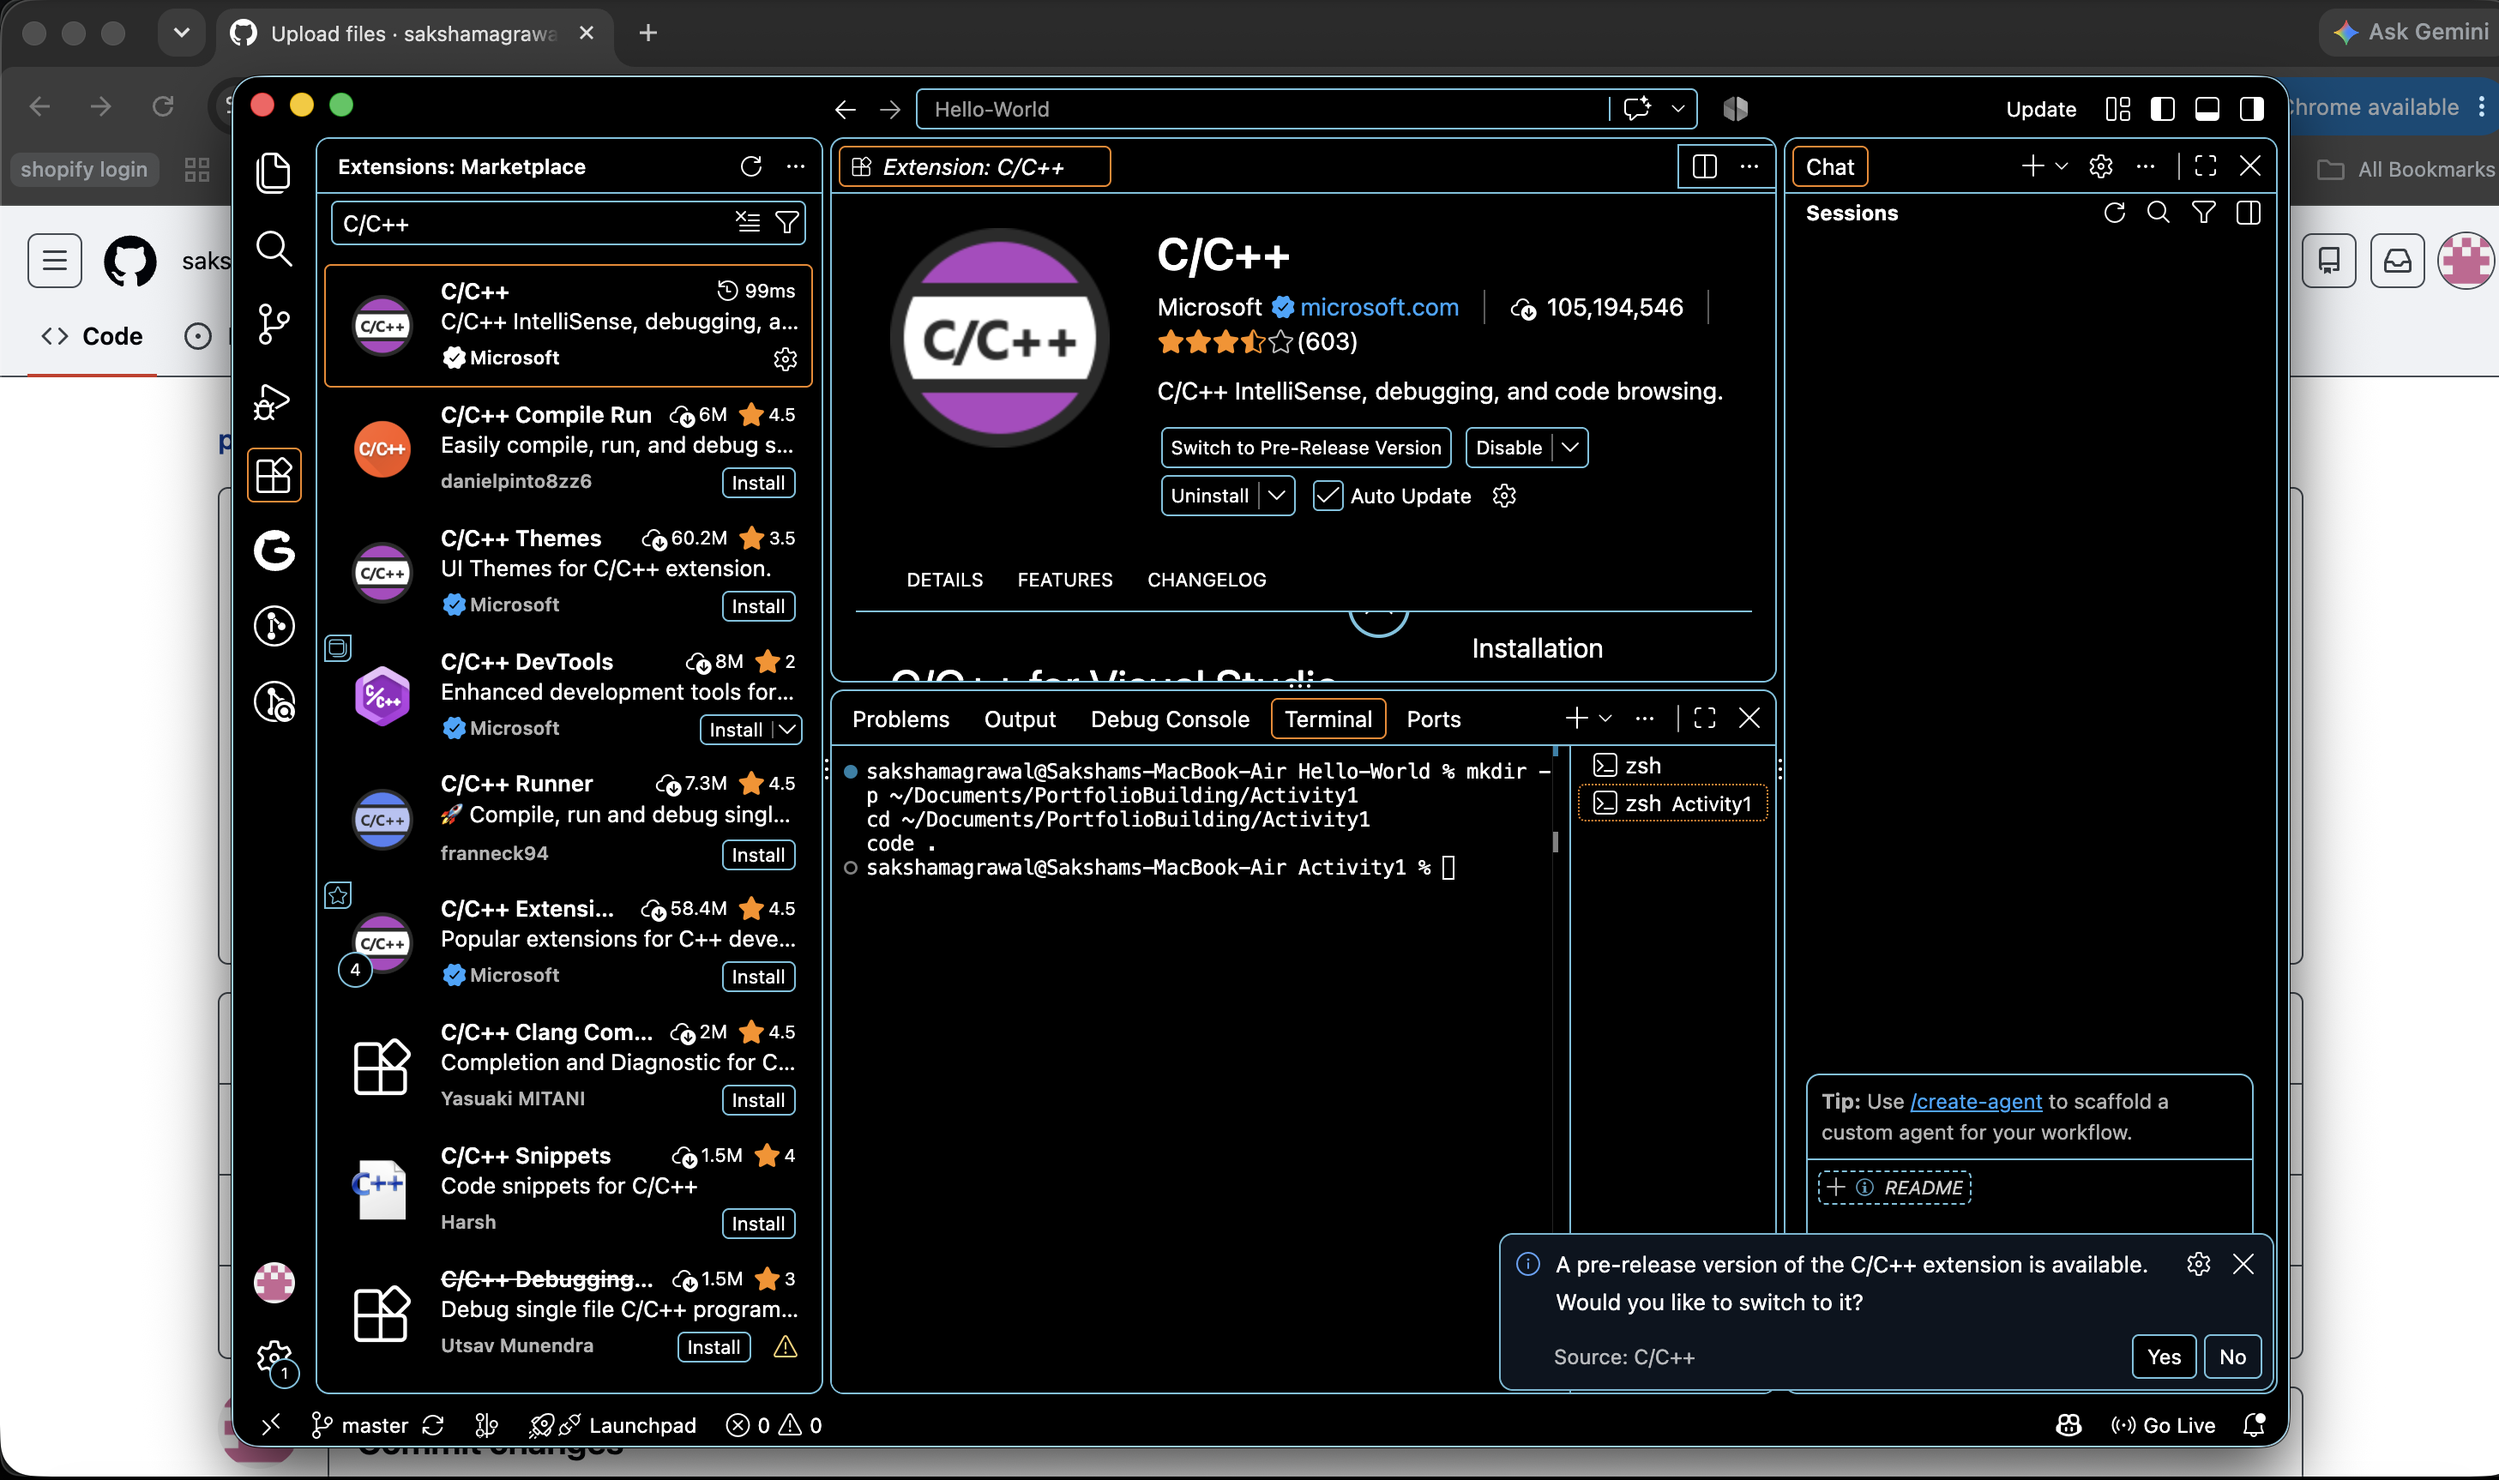
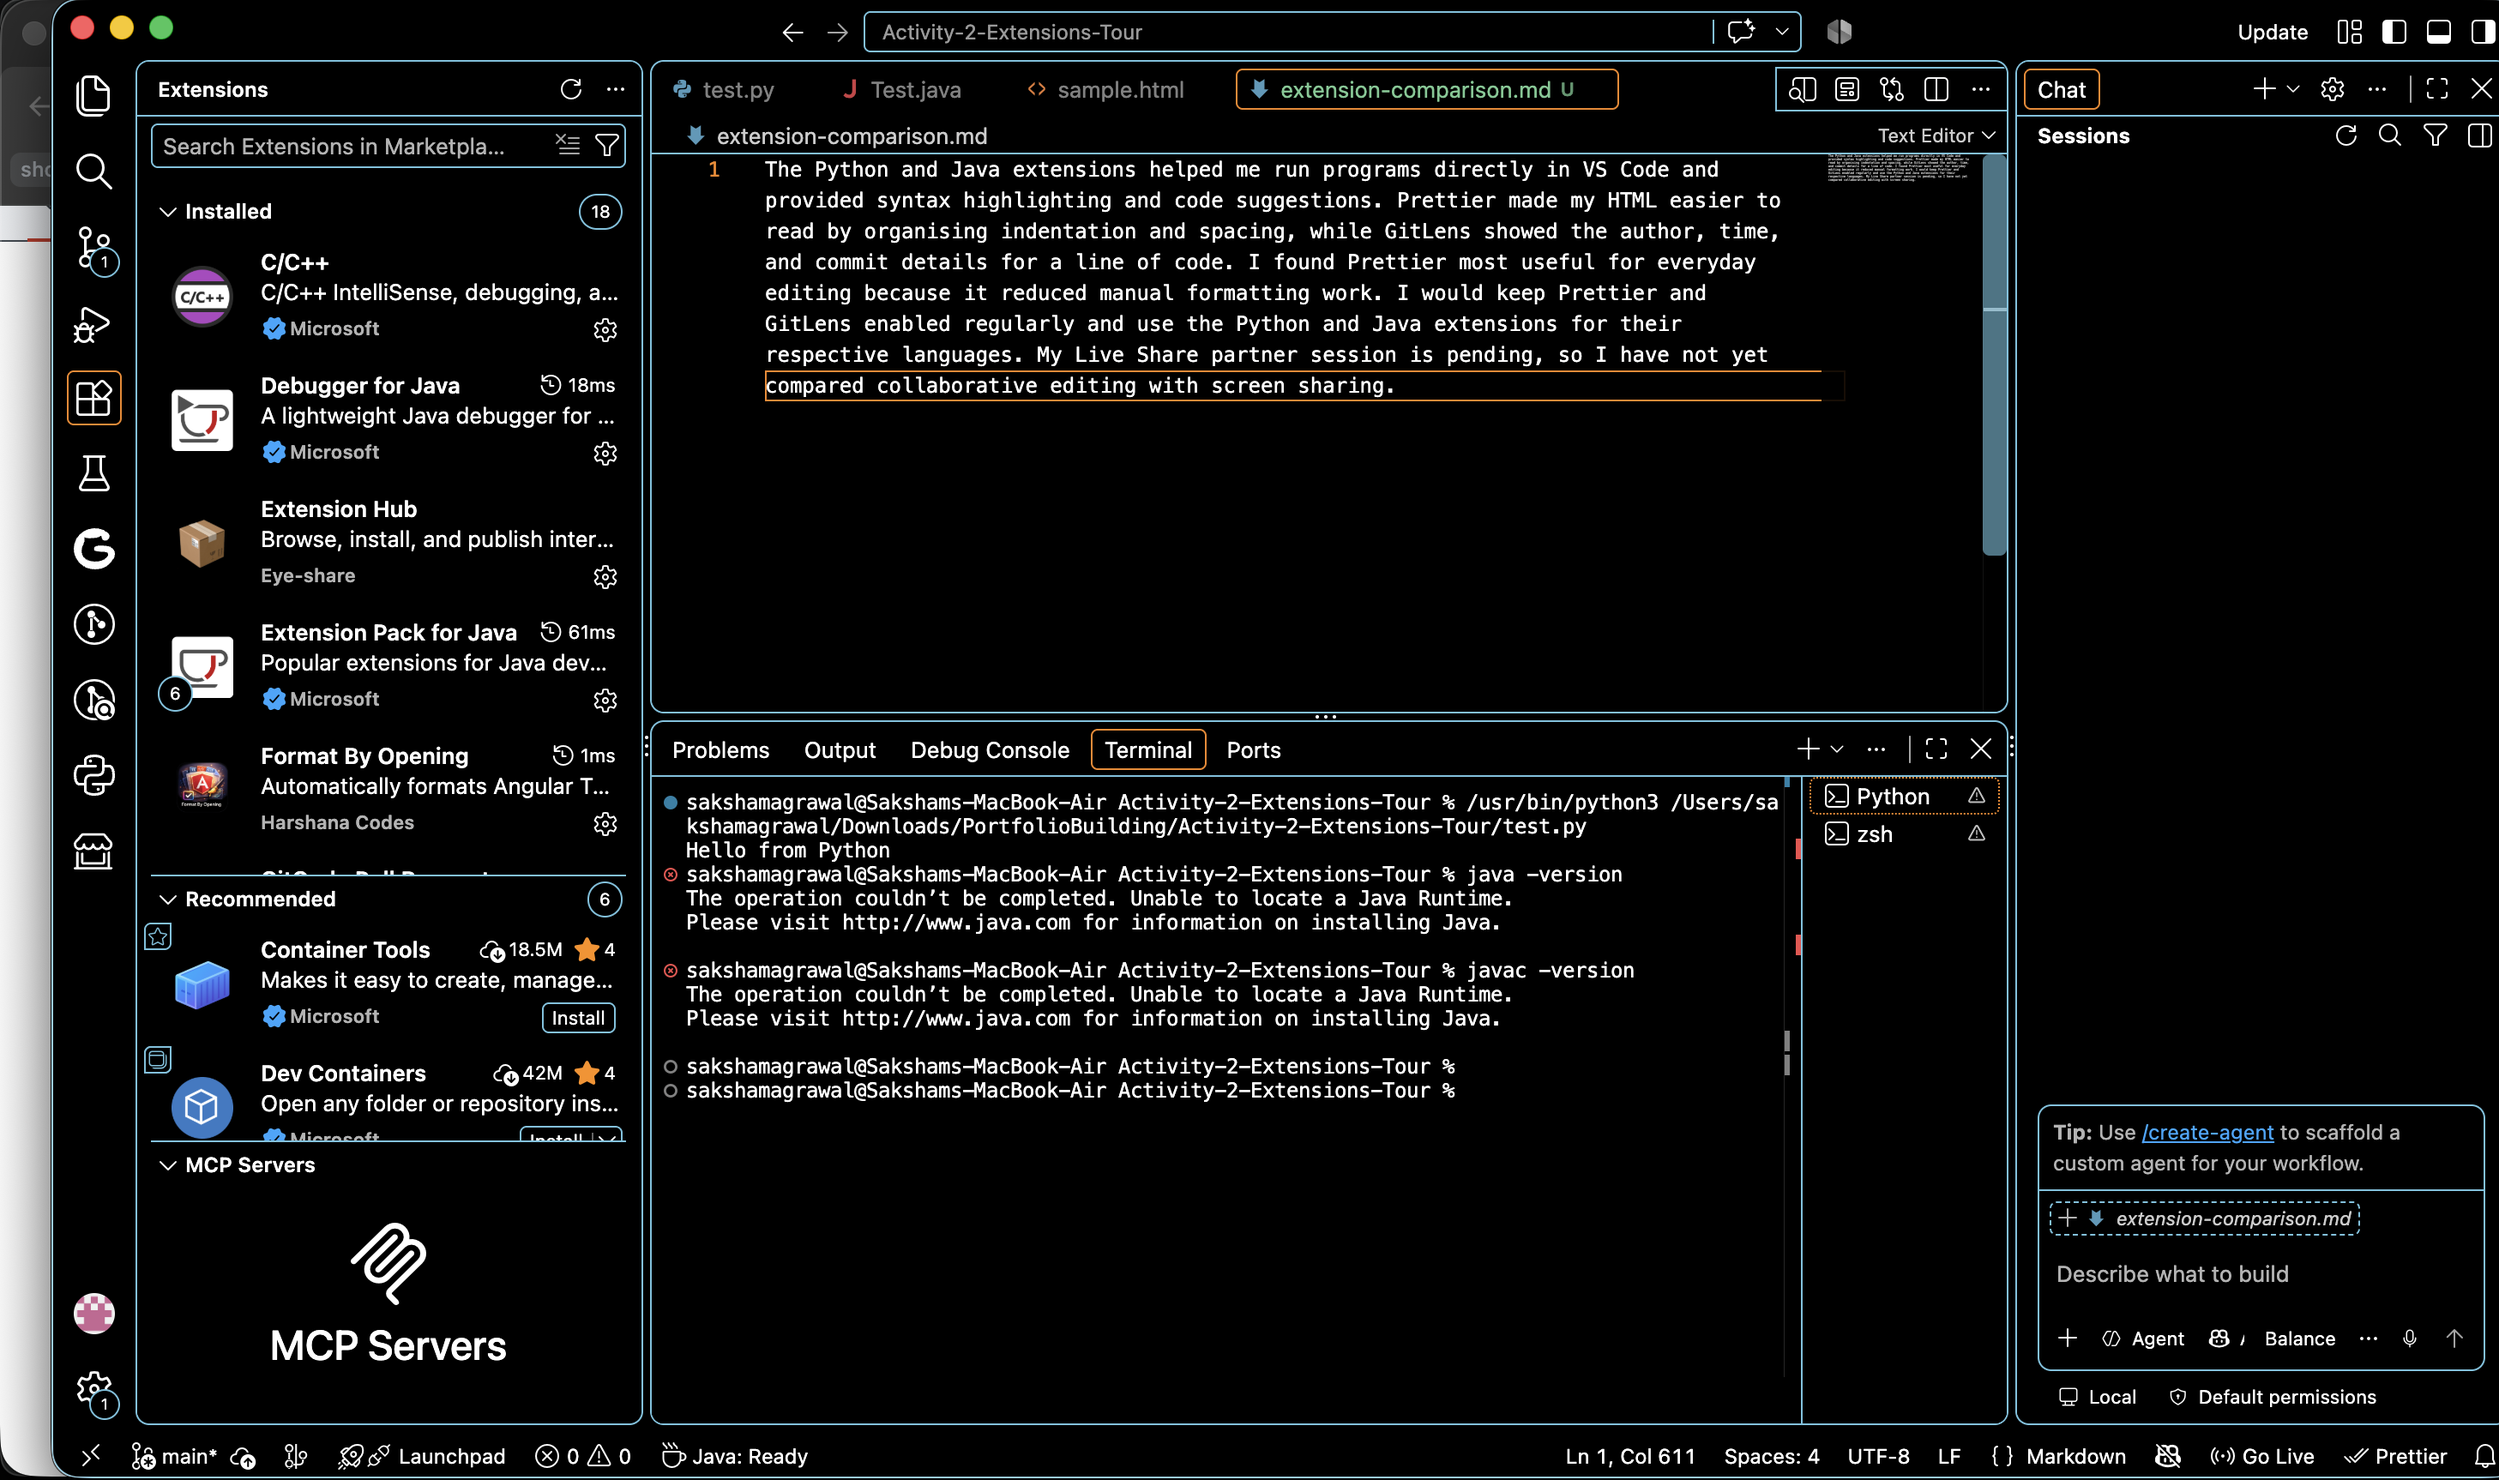
Add files via upload

diff --git a/sample.html b/sample.html
@@ -1,0 +1,10 @@
+<!doctype html>
+<html>
+  <head>
+    <title>My Portfolio</title>
+  </head>
+  <body>
+    <h1>Saksham Agrawal</h1>
+    <p>I am learning coding tools.</p>
+  </body>
+</html>

diff --git a/Test.java b/Test.java
@@ -1,0 +1,5 @@
+public class Test {
+    public static void main(String[] args) {
+        System.out.println("Hello from Java");
+    }
+}

diff --git a/test.py b/test.py
@@ -1,0 +1,1 @@
+print("Hello from Python")

diff --git a/extension-comparison.md b/extension-comparison.md
@@ -1,0 +1,1 @@
+The Python and Java extensions helped me run programs directly in VS Code and provided syntax highlighting and code suggestions. Prettier made my HTML easier to read by organising indentation and spacing, while GitLens showed the author, time, and commit details for a line of code. I found Prettier most useful for everyday editing because it reduced manual formatting work. I would keep Prettier and GitLens enabled regularly and use the Python and Java extensions for their respective languages. My Live Share partner session is pending, so I have not yet compared collaborative editing with screen sharing.
